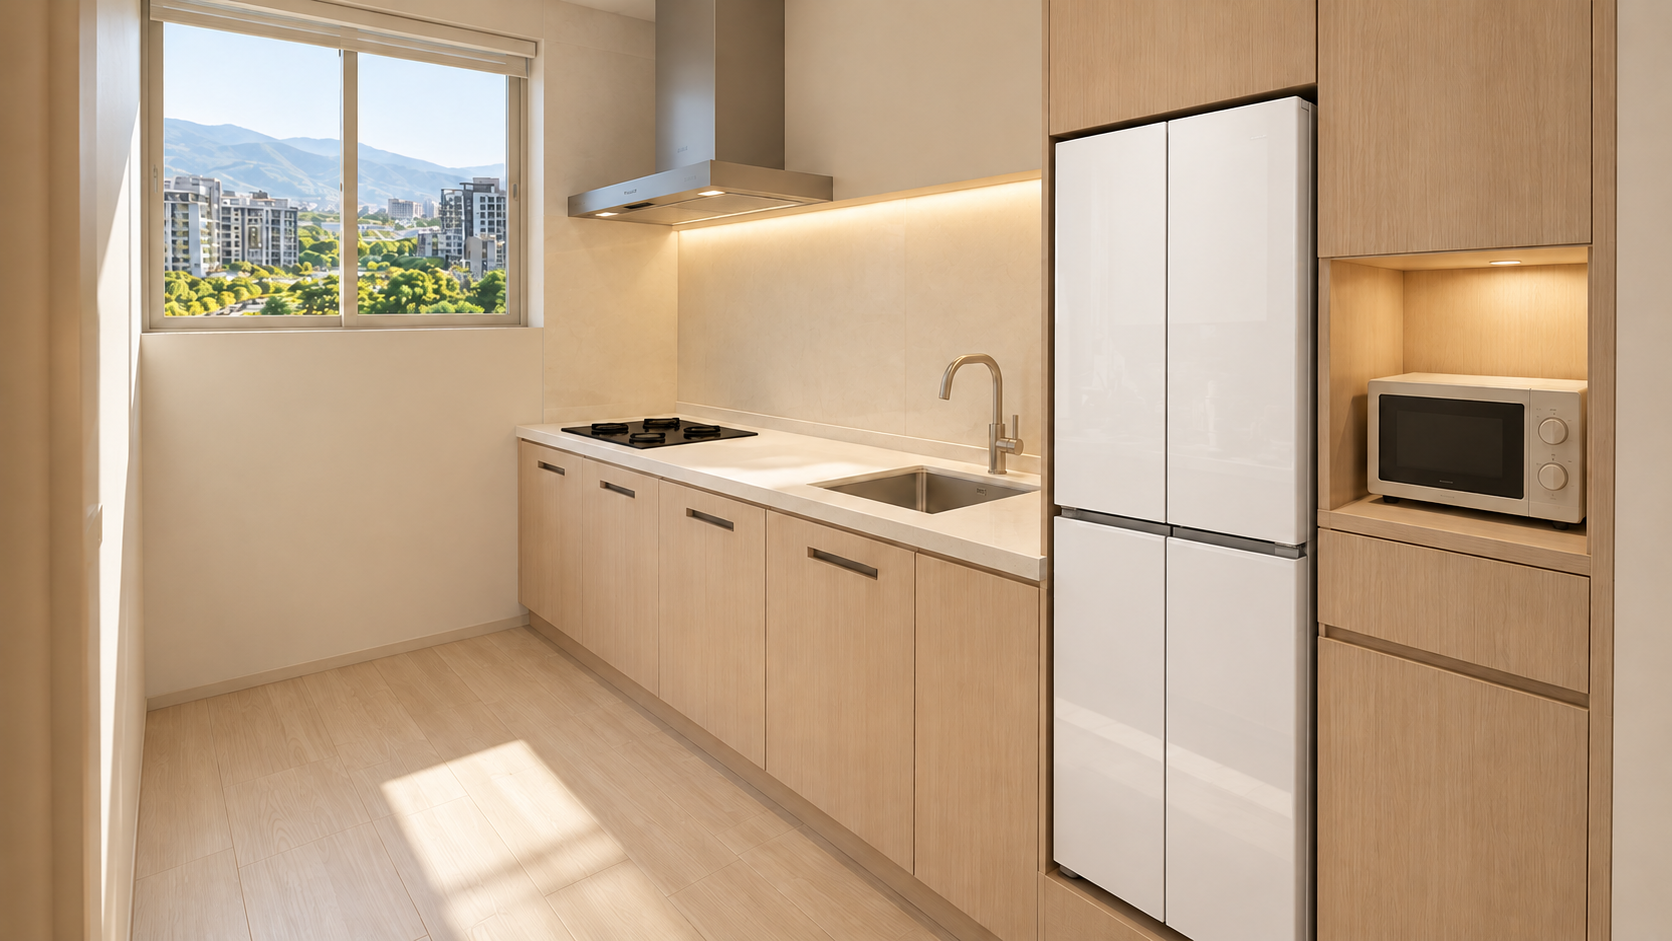
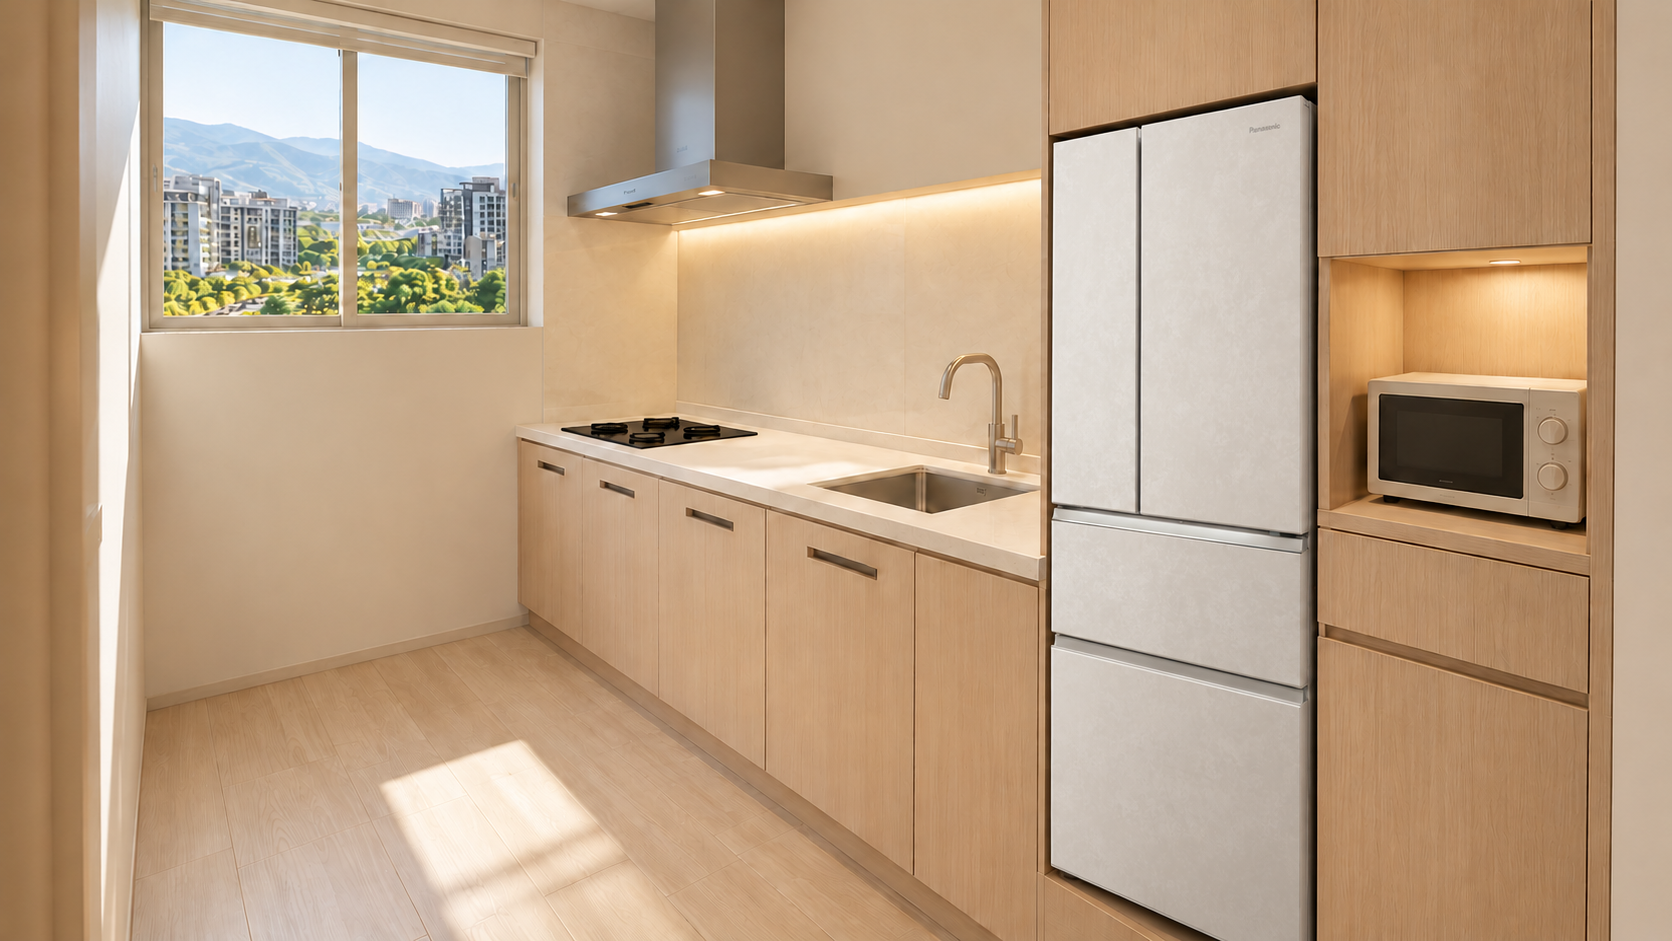
Correct Panasonic fridge render and hidden-door view

diff --git a/index.html b/index.html
@@ -1,1 +1,1 @@
-<!doctype html><html lang="zh-Hant"><head><link rel="icon" href="data:,"><meta charset="utf-8"><meta name="viewport" content="width=device-width,initial-scale=1"><title>B1｜暖木日常</title><link rel="stylesheet" href="studio.css"></head><body><header><a class="brand" href="#">B1 <span>暖木日常</span></a><span class="edition">INTERIOR STUDY / 02</span><nav><button data-mode="3d" class="active">立體空間</button><button data-mode="plan">配置平面</button></nav></header><main><aside><p class="overline">SCANDINAVIAN LIVING</p><h1>把生活，<br>留給光與木。</h1><p class="intro">奶油白、淺橡木與亞麻。讓收藏有位置，讓工作與休息各自安定。</p><div class="rooms"><button data-room="all" class="active">01　全室鳥瞰 <span>↗</span></button><button data-room="living">02　客廳與展示 <span>↗</span></button><button data-room="media">03　影音工作室 <span>↗</span></button><button data-room="entry">04　玄關隱藏門 <span>↗</span></button><button data-room="laundry">05　陽台洗衣區 <span>↗</span></button></div><div class="detail"><p class="overline" id="subtitle">以 B1 戶圖面為基礎</p><h2 id="title">全室配置</h2><p id="description">保留原圖的三房、客餐廳與陽台分區。選擇左側空間，查看專屬配置與視角。</p></div><div class="palette"><i style="background:#e9e2d3"></i><i style="background:#c39b6d"></i><i style="background:#8b977f"></i><i style="background:#baa48d"></i><i style="background:#4d514b"></i><span>白橡木 / 亞麻 / 霧面礦物</span></div></aside><section class="workspace"><div class="toolbar"><label><input id="walls" type="checkbox" checked> 剖面牆</label><label><input id="ceiling" type="checkbox"> 天花</label><label><input id="night" type="checkbox"> 夜間情境</label><button id="reset">重設視角</button></div><div id="viewport"><canvas id="scene"></canvas><svg id="plan" viewBox="200 0 1100 900" hidden aria-label="B1 DWG 平面配置"></svg><div class="view-label"><b id="viewname">全室鳥瞰</b><span>拖曳旋轉 · 滾輪縮放</span></div></div><footer><span>原圖牆線＋提案家具 · 公分比例建模</span><span>天花淨高暫定 260 cm</span></footer><div class="notes"><article><b>220 cm 已購沙發</b><p>木框與亞麻坐墊為外觀示意，保留指定長度；實際面料與深度待產品規格核對。</p></article><article><b>60 cm 窗邊臥榻</b><p>影音室以窗下收納臥榻、升降桌及展示牆整合，保留中央通行。</p></article><article><b>整合式智慧照明</b><p>全室平釘天花、展示燈帶與窗簾預留；夜間模式可預覽暖光氛圍。</p></article></div><p class="status">設計提案：牆線取自 DWG 的可解析圖元，尚未展開圖塊；家具位置、隱藏門做法、設備尺寸與完成面淨高須進一步核對。此版為即時 3D 模型，非完工實景。</p></section></main><script src="three.min.js"></script><script src="b1-plan-data.js"></script><script src="studio.js?v=20261024-home"></script></body></html>
+<!doctype html><html lang="zh-Hant"><head><link rel="icon" href="data:,"><meta charset="utf-8"><meta name="viewport" content="width=device-width,initial-scale=1"><title>B1｜暖木日常</title><link rel="stylesheet" href="studio.css"></head><body><header><a class="brand" href="#">B1 <span>暖木日常</span></a><span class="edition">INTERIOR STUDY / 02</span><nav><button data-mode="3d" class="active">立體空間</button><button data-mode="plan">配置平面</button></nav></header><main><aside><p class="overline">SCANDINAVIAN LIVING</p><h1>把生活，<br>留給光與木。</h1><p class="intro">奶油白、淺橡木與亞麻。讓收藏有位置，讓工作與休息各自安定。</p><div class="rooms"><button data-room="all" class="active">01　全室鳥瞰 <span>↗</span></button><button data-room="living">02　客廳與展示 <span>↗</span></button><button data-room="media">03　影音工作室 <span>↗</span></button><button data-room="entry">04　客廳隱藏門 <span>↗</span></button><button data-room="laundry">05　陽台洗衣區 <span>↗</span></button></div><div class="detail"><p class="overline" id="subtitle">以 B1 戶圖面為基礎</p><h2 id="title">全室配置</h2><p id="description">保留原圖的三房、客餐廳與陽台分區。選擇左側空間，查看專屬配置與視角。</p></div><div class="palette"><i style="background:#e9e2d3"></i><i style="background:#c39b6d"></i><i style="background:#8b977f"></i><i style="background:#baa48d"></i><i style="background:#4d514b"></i><span>白橡木 / 亞麻 / 霧面礦物</span></div></aside><section class="workspace"><div class="toolbar"><label><input id="walls" type="checkbox" checked> 剖面牆</label><label><input id="ceiling" type="checkbox"> 天花</label><label><input id="night" type="checkbox"> 夜間情境</label><button id="reset">重設視角</button></div><div id="viewport"><canvas id="scene"></canvas><svg id="plan" viewBox="200 0 1100 900" hidden aria-label="B1 DWG 平面配置"></svg><div class="view-label"><b id="viewname">全室鳥瞰</b><span>拖曳旋轉 · 滾輪縮放</span></div></div><footer><span>原圖牆線＋提案家具 · 公分比例建模</span><span>天花淨高暫定 260 cm</span></footer><div class="notes"><article><b>220 cm 已購沙發</b><p>木框與亞麻坐墊為外觀示意，保留指定長度；實際面料與深度待產品規格核對。</p></article><article><b>60 cm 窗邊臥榻</b><p>影音室以窗下收納臥榻、升降桌及展示牆整合，保留中央通行。</p></article><article><b>整合式智慧照明</b><p>全室平釘天花、展示燈帶與窗簾預留；夜間模式可預覽暖光氛圍。</p></article></div><p class="status">設計提案：牆線取自 DWG 的可解析圖元，尚未展開圖塊；家具位置、隱藏門做法、設備尺寸與完成面淨高須進一步核對。此版為即時 3D 模型，非完工實景。</p></section></main><script src="three.min.js"></script><script src="b1-plan-data.js"></script><script src="studio.js?v=20261024-layout5"></script></body></html>

diff --git a/nordic-studio.html b/nordic-studio.html
@@ -1,1 +1,1 @@
-<!doctype html><html lang="zh-Hant"><head><link rel="icon" href="data:,"><meta charset="utf-8"><meta name="viewport" content="width=device-width,initial-scale=1"><title>B1｜暖木日常</title><link rel="stylesheet" href="studio.css"></head><body><header><a class="brand" href="#">B1 <span>暖木日常</span></a><span class="edition">INTERIOR STUDY / 02</span><nav><button data-mode="3d" class="active">立體空間</button><button data-mode="plan">配置平面</button></nav></header><main><aside><p class="overline">SCANDINAVIAN LIVING</p><h1>把生活，<br>留給光與木。</h1><p class="intro">奶油白、淺橡木與亞麻。讓收藏有位置，讓工作與休息各自安定。</p><div class="rooms"><button data-room="all" class="active">01　全室鳥瞰 <span>↗</span></button><button data-room="living">02　客廳與展示 <span>↗</span></button><button data-room="media">03　影音工作室 <span>↗</span></button><button data-room="entry">04　玄關隱藏門 <span>↗</span></button><button data-room="laundry">05　陽台洗衣區 <span>↗</span></button></div><div class="detail"><p class="overline" id="subtitle">以 B1 戶圖面為基礎</p><h2 id="title">全室配置</h2><p id="description">保留原圖的三房、客餐廳與陽台分區。選擇左側空間，查看專屬配置與視角。</p></div><div class="palette"><i style="background:#e9e2d3"></i><i style="background:#c39b6d"></i><i style="background:#8b977f"></i><i style="background:#baa48d"></i><i style="background:#4d514b"></i><span>白橡木 / 亞麻 / 霧面礦物</span></div></aside><section class="workspace"><div class="toolbar"><label><input id="walls" type="checkbox" checked> 剖面牆</label><label><input id="ceiling" type="checkbox"> 天花</label><label><input id="night" type="checkbox"> 夜間情境</label><button id="reset">重設視角</button></div><div id="viewport"><canvas id="scene"></canvas><svg id="plan" viewBox="200 0 1100 900" hidden aria-label="B1 DWG 平面配置"></svg><div class="view-label"><b id="viewname">全室鳥瞰</b><span>拖曳旋轉 · 滾輪縮放</span></div></div><footer><span>原圖牆線＋提案家具 · 公分比例建模</span><span>天花淨高暫定 260 cm</span></footer><div class="notes"><article><b>220 cm 已購沙發</b><p>木框與亞麻坐墊為外觀示意，保留指定長度；實際面料與深度待產品規格核對。</p></article><article><b>60 cm 窗邊臥榻</b><p>影音室以窗下收納臥榻、升降桌及展示牆整合，保留中央通行。</p></article><article><b>整合式智慧照明</b><p>全室平釘天花、展示燈帶與窗簾預留；夜間模式可預覽暖光氛圍。</p></article></div><p class="status">設計提案：牆線取自 DWG 的可解析圖元，尚未展開圖塊；家具位置、隱藏門做法、設備尺寸與完成面淨高須進一步核對。此版為即時 3D 模型，非完工實景。</p></section></main><script src="three.min.js"></script><script src="b1-plan-data.js"></script><script src="studio.js?v=20261024-home"></script></body></html>
+<!doctype html><html lang="zh-Hant"><head><link rel="icon" href="data:,"><meta charset="utf-8"><meta name="viewport" content="width=device-width,initial-scale=1"><title>B1｜暖木日常</title><link rel="stylesheet" href="studio.css"></head><body><header><a class="brand" href="#">B1 <span>暖木日常</span></a><span class="edition">INTERIOR STUDY / 02</span><nav><button data-mode="3d" class="active">立體空間</button><button data-mode="plan">配置平面</button></nav></header><main><aside><p class="overline">SCANDINAVIAN LIVING</p><h1>把生活，<br>留給光與木。</h1><p class="intro">奶油白、淺橡木與亞麻。讓收藏有位置，讓工作與休息各自安定。</p><div class="rooms"><button data-room="all" class="active">01　全室鳥瞰 <span>↗</span></button><button data-room="living">02　客廳與展示 <span>↗</span></button><button data-room="media">03　影音工作室 <span>↗</span></button><button data-room="entry">04　客廳隱藏門 <span>↗</span></button><button data-room="laundry">05　陽台洗衣區 <span>↗</span></button></div><div class="detail"><p class="overline" id="subtitle">以 B1 戶圖面為基礎</p><h2 id="title">全室配置</h2><p id="description">保留原圖的三房、客餐廳與陽台分區。選擇左側空間，查看專屬配置與視角。</p></div><div class="palette"><i style="background:#e9e2d3"></i><i style="background:#c39b6d"></i><i style="background:#8b977f"></i><i style="background:#baa48d"></i><i style="background:#4d514b"></i><span>白橡木 / 亞麻 / 霧面礦物</span></div></aside><section class="workspace"><div class="toolbar"><label><input id="walls" type="checkbox" checked> 剖面牆</label><label><input id="ceiling" type="checkbox"> 天花</label><label><input id="night" type="checkbox"> 夜間情境</label><button id="reset">重設視角</button></div><div id="viewport"><canvas id="scene"></canvas><svg id="plan" viewBox="200 0 1100 900" hidden aria-label="B1 DWG 平面配置"></svg><div class="view-label"><b id="viewname">全室鳥瞰</b><span>拖曳旋轉 · 滾輪縮放</span></div></div><footer><span>原圖牆線＋提案家具 · 公分比例建模</span><span>天花淨高暫定 260 cm</span></footer><div class="notes"><article><b>220 cm 已購沙發</b><p>木框與亞麻坐墊為外觀示意，保留指定長度；實際面料與深度待產品規格核對。</p></article><article><b>60 cm 窗邊臥榻</b><p>影音室以窗下收納臥榻、升降桌及展示牆整合，保留中央通行。</p></article><article><b>整合式智慧照明</b><p>全室平釘天花、展示燈帶與窗簾預留；夜間模式可預覽暖光氛圍。</p></article></div><p class="status">設計提案：牆線取自 DWG 的可解析圖元，尚未展開圖塊；家具位置、隱藏門做法、設備尺寸與完成面淨高須進一步核對。此版為即時 3D 模型，非完工實景。</p></section></main><script src="three.min.js"></script><script src="b1-plan-data.js"></script><script src="studio.js?v=20261024-layout5"></script></body></html>

diff --git a/studio-home.js b/studio-home.js
@@ -112,7 +112,7 @@
   const capture=document.createElement('button');capture.textContent='儲存 3D 視角';capture.title='將目前即時渲染儲存為 PNG';capture.onclick=()=>{const link=document.createElement('a');link.download=`B1-${selected}-3d-render.png`;link.href=canvas.toDataURL('image/png');link.click();};document.querySelector('.toolbar').append(capture);
   // Curated photoreal render gallery: these are high-detail design views, while
   // the canvas above remains the measured interactive model.
-  const premiumRenders={living:['客廳','renders/living-premium.png'],kitchen:['餐廚','renders/kitchen-premium.png?v=20261024-layout4'],master:['主臥','renders/master-premium.png?v=20261024-layout2'],media:['多功能室','renders/media-premium.png?v=20261024-layout2'],guest:['次臥','renders/guest-premium.png?v=20261024-layout2'],bath:['客用衛浴','renders/bath-premium.png?v=20261024-layout3'],ensuite:['主臥衛浴','renders/ensuite-premium.png?v=20261024-layout2'],laundry:['洗衣陽台','renders/laundry-premium.png?v=20261024-layout3']};
+  const premiumRenders={living:['客廳','renders/living-premium.png'],entry:['客廳隱藏門櫃牆','renders/hidden-door-premium.png?v=20261024-layout2'],kitchen:['餐廚','renders/kitchen-premium.png?v=20261024-layout5'],master:['主臥','renders/master-premium.png?v=20261024-layout2'],media:['多功能室','renders/media-premium.png?v=20261024-layout2'],guest:['次臥','renders/guest-premium.png?v=20261024-layout2'],bath:['客用衛浴','renders/bath-premium.png?v=20261024-layout3'],ensuite:['主臥衛浴','renders/ensuite-premium.png?v=20261024-layout2'],laundry:['洗衣陽台','renders/laundry-premium.png?v=20261024-layout3']};
   const gallery=document.createElement('section');gallery.className='render-gallery';gallery.innerHTML='<div class="render-gallery__head"><div><p class="overline">PREMIUM RENDER COLLECTION</p><b>高級空間渲染</b></div><label>選擇空間 <select aria-label="選擇高級渲染空間"></select></label></div><figure><img alt="高級室內設計渲染"><figcaption></figcaption></figure>';
   const gallerySelect=gallery.querySelector('select'),galleryImage=gallery.querySelector('img'),galleryCaption=gallery.querySelector('figcaption');
   for(const [key,[label]] of Object.entries(premiumRenders)){const option=document.createElement('option');option.value=key;option.textContent=label;gallerySelect.append(option);}

diff --git a/studio-finishes.js b/studio-finishes.js
@@ -178,5 +178,5 @@
     const importMap=document.createElement('script');importMap.type='importmap';importMap.textContent='{"imports":{"three":"https://cdn.jsdelivr.net/npm/three@0.160.1/build/three.module.js"}}';document.head.append(importMap);
     const loaderModule=document.createElement('script');loaderModule.type='module';loaderModule.textContent="import { GLTFLoader } from 'https://cdn.jsdelivr.net/npm/three@0.160.1/examples/jsm/loaders/GLTFLoader.js'; window.B1_GLTFLoader=GLTFLoader; window.dispatchEvent(new Event('b1-gltf-loader-ready'));";document.head.append(loaderModule);
   }
-  const homeScript=document.createElement('script');homeScript.src='studio-home.js?v=20261024';document.head.append(homeScript);
+  const homeScript=document.createElement('script');homeScript.src='studio-home.js?v=20261024-layout5';document.head.append(homeScript);
 })();

diff --git a/UPGRADE.md b/UPGRADE.md
@@ -83,12 +83,14 @@ iPhone/Android hardware validation. Publish existing Pages repo and refresh loca
 - The toolbar and first-person proximity prompt can both open and close it; it remains outside the fixed-furniture collider so the entrance stays passable.
 
 ## Premium render gallery
-- Add eight curated, 16:9 photoreal design renders for the living room, kitchen, bedrooms, media room, both bathrooms and laundry balcony.
+- Add nine curated, 16:9 photoreal design renders for the living room, its concealed-door cabinet wall, kitchen, bedrooms, media room, both bathrooms and laundry balcony.
 - The website provides a space selector; choosing a view also selects the matching measured 3D room. Render images are a presentation layer, not a construction drawing.
-- Regenerate the seven non-living-room views against the B1 plan and existing 3D room layout: room footprint, furniture orientation, window position, appliance or fixture sizes, and balcony railing are constrained to their modeled arrangements.
+- Regenerate the eight non-living-room views against the B1 plan and existing 3D room layout: room footprint, furniture orientation, window position, appliance or fixture sizes, and balcony railing are constrained to their modeled arrangements.
 
 ## Revised kitchen, guest bath, and laundry
-- Remove the entry render from the gallery. Move the kitchen cooktop to the left end of the existing 235 x 60 cm counter and the sink to the right end; preserve refrigerator and appliance cabinet positions.
+- Replace the old entry render with a living-room-facing view of the concealed-door cabinet wall. Move the kitchen cooktop to the left end of the existing 235 x 60 cm counter and the sink to the right end; preserve refrigerator and appliance cabinet positions.
 - Swap the guest bathroom toilet and vanity. Place both against the left wall facing the room center; keep the tub and shower in their existing right-side bays.
 - Replace the laundry placeholder with LG WD-S15NDB geometry at 65 x 64.5 x 95 cm. Set its final orientation to 360 degrees (270 + 90), equivalent to the original inward-facing direction, and update the high-resolution balcony render.
 - Kitchen render and 3D specification use the Panasonic NR-D505XGS-W cloud-rock white four-door refrigerator (72.1 × 69.5 × 183.4 cm), with the cooktop on the left and sink on the right.
+- Recreate the kitchen render against Panasonic's official NR-D505XGS-W product image: two upper hinged doors (asymmetric split) and two full-width drawers, in white stone-glass finish.
+- Add a living-room-facing render of the continuous storage wall and flush guest-bath hidden door; the hidden door itself remains interactable in the measured model.
